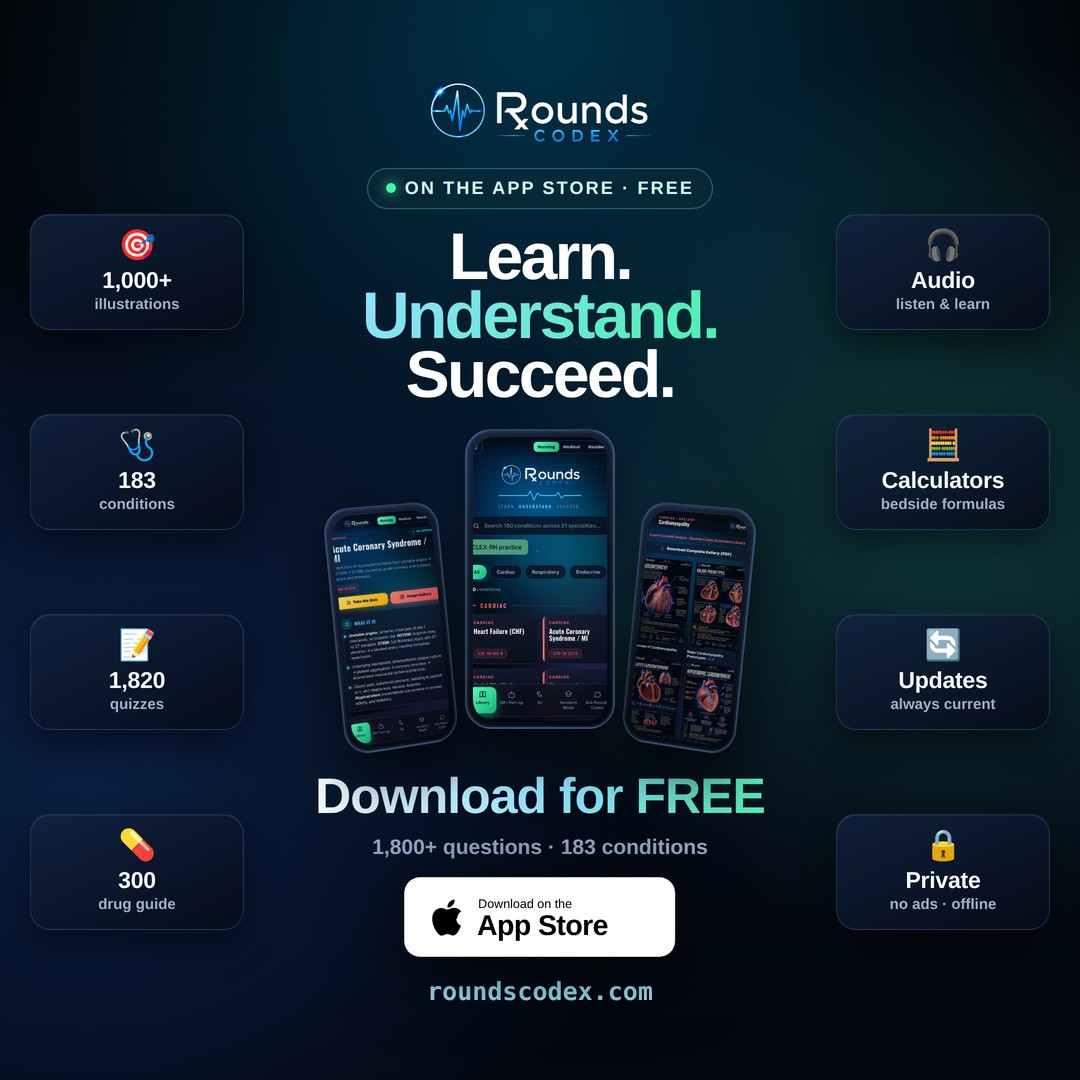
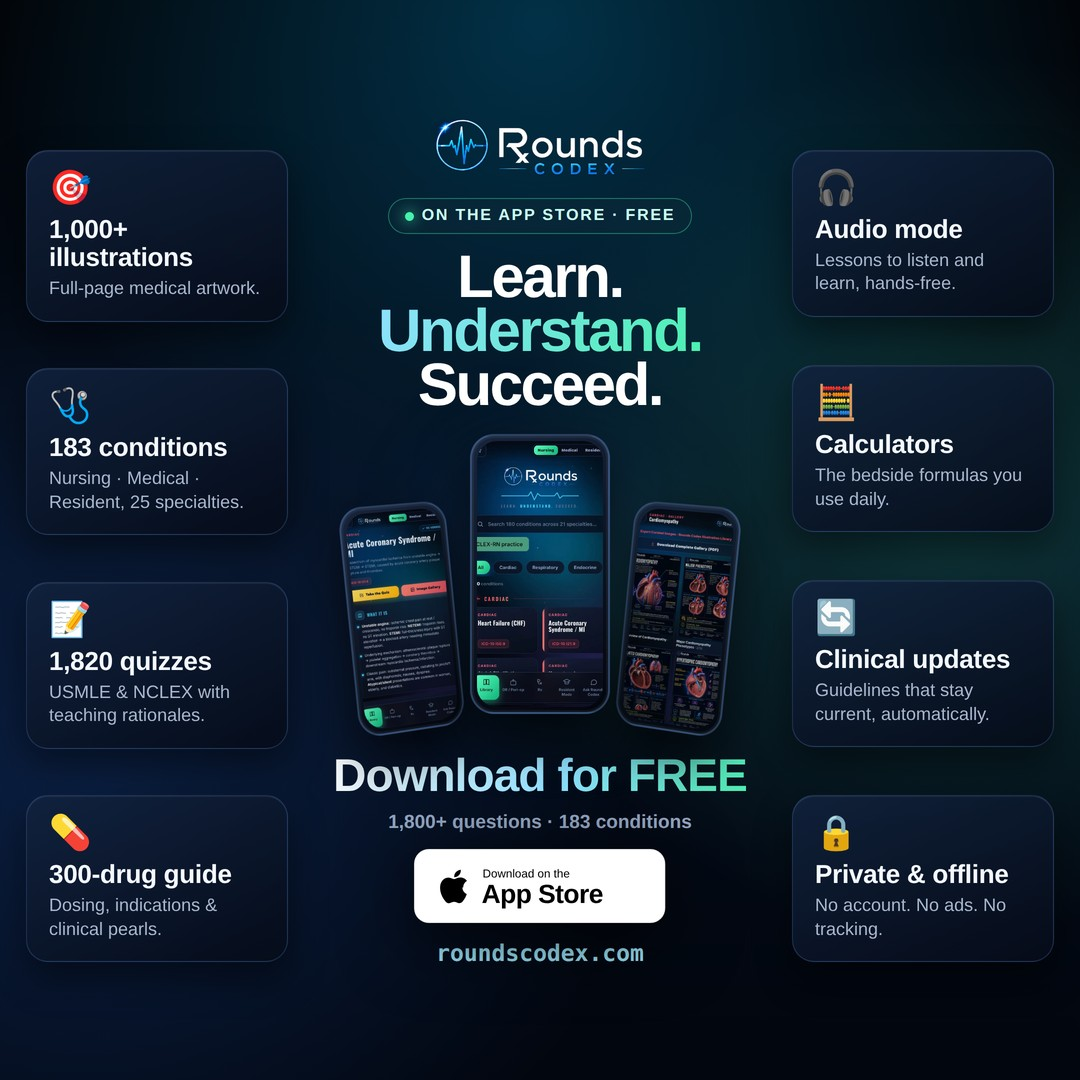
Enlarge side feature boxes with full descriptions on 1:1 square graphic

diff --git a/landing/social-square-boxes-1x1.html b/landing/social-square-boxes-1x1.html
@@ -11,55 +11,55 @@ body{background:#000}
     radial-gradient(circle at 8% 74%,#2878ff30,#0000 42%),
     linear-gradient(#020509,#050e1d 52%,#02060e)}
 .inner{position:relative;z-index:2;height:100%;display:flex;flex-direction:column;align-items:center;
-  justify-content:center;text-align:center;padding:44px 60px 42px}
-.logo{width:236px;height:auto}
-.pill{display:inline-flex;align-items:center;gap:.55rem;margin-top:16px;padding:9px 18px;border-radius:999px;
-  background:#0f2a3a6b;border:1px solid #46f2ad60;color:#c9fff0;font-size:18px;font-weight:800;letter-spacing:.12em;text-transform:uppercase}
-.pill i{width:10px;height:10px;border-radius:50%;background:#46f2ad;box-shadow:0 0 14px #46f2ad}
-h1{margin-top:18px;font-size:66px;line-height:.9;letter-spacing:-.04em;font-weight:850}
+  justify-content:center;text-align:center;padding:40px 300px 40px}
+.logo{width:224px;height:auto}
+.pill{display:inline-flex;align-items:center;gap:.5rem;margin-top:14px;padding:8px 16px;border-radius:999px;
+  background:#0f2a3a6b;border:1px solid #46f2ad60;color:#c9fff0;font-size:16px;font-weight:800;letter-spacing:.11em;text-transform:uppercase}
+.pill i{width:9px;height:9px;border-radius:50%;background:#46f2ad;box-shadow:0 0 14px #46f2ad}
+h1{margin-top:16px;font-size:60px;line-height:.9;letter-spacing:-.04em;font-weight:850}
 h1 .u{color:#0000;background:linear-gradient(120deg,#8fe0ff,#4bf1b0);-webkit-background-clip:text;background-clip:text}
-.phones{position:relative;display:flex;justify-content:center;align-items:flex-end;gap:14px;margin:24px 0 20px}
-.phones:before{content:"";position:absolute;inset:2% 6% 0;z-index:-1;filter:blur(58px);border-radius:50%;
+.phones{position:relative;display:flex;justify-content:center;align-items:flex-end;gap:12px;margin:22px 0 18px}
+.phones:before{content:"";position:absolute;inset:2% 6% 0;z-index:-1;filter:blur(54px);border-radius:50%;
   background:radial-gradient(circle at 50% 40%,#2878ff66,#0000 46%),radial-gradient(circle at 62% 60%,#36e8b74d,#0000 46%)}
-.ph{width:150px;aspect-ratio:.5;border:2px solid #7ab4ff55;border-radius:26px;padding:6px;background:linear-gradient(150deg,#17253d,#02050c);
-  box-shadow:0 24px 56px #000b,inset 0 0 0 2px #ffffff0d;overflow:hidden}
-.ph img{width:100%;height:100%;object-fit:cover;object-position:top;border-radius:21px}
-.ph.s{width:122px;opacity:.92}
-.ph.l{transform:perspective(1200px) rotateY(20deg) rotate(-6deg) translateY(20px)}
-.ph.r{transform:perspective(1200px) rotateY(-20deg) rotate(6deg) translateY(20px)}
+.ph{width:140px;aspect-ratio:.5;border:2px solid #7ab4ff55;border-radius:24px;padding:5px;background:linear-gradient(150deg,#17253d,#02050c);
+  box-shadow:0 22px 52px #000b,inset 0 0 0 2px #ffffff0d;overflow:hidden}
+.ph img{width:100%;height:100%;object-fit:cover;object-position:top;border-radius:20px}
+.ph.s{width:114px;opacity:.92}
+.ph.l{transform:perspective(1200px) rotateY(20deg) rotate(-6deg) translateY(18px)}
+.ph.r{transform:perspective(1200px) rotateY(-20deg) rotate(6deg) translateY(18px)}
 .ph.c{z-index:2}
-.free{margin-top:18px;font-size:50px;font-weight:900;letter-spacing:-.02em;
+.free{margin-top:16px;font-size:46px;font-weight:900;letter-spacing:-.02em;
   color:#0000;background:linear-gradient(120deg,#fff,#8fe0ff 55%,#4bf1b0);-webkit-background-clip:text;background-clip:text}
-.stats{margin-top:11px;font-size:21px;color:#93a6c2;font-weight:600}
-.badge{margin-top:16px;filter:drop-shadow(0 16px 36px #000b)}
-.badge svg{height:82px;width:auto}
-.domain{margin-top:14px;font-size:25px;font-weight:800;color:#9fe9ff;font-family:ui-monospace,SFMono-Regular,Menlo,monospace}
+.stats{margin-top:10px;font-size:19px;color:#93a6c2;font-weight:600}
+.badge{margin-top:14px;filter:drop-shadow(0 16px 36px #000b)}
+.badge svg{height:76px;width:auto}
+.domain{margin-top:12px;font-size:23px;font-weight:800;color:#9fe9ff;font-family:ui-monospace,SFMono-Regular,Menlo,monospace}
 
 /* side feature columns */
-.side{position:absolute;z-index:3;top:214px;bottom:150px;width:214px;
+.side{position:absolute;z-index:3;top:150px;bottom:118px;width:262px;
   display:flex;flex-direction:column;justify-content:space-between}
-.side.left{left:30px}
-.side.right{right:30px}
-.fbox{display:flex;flex-direction:column;align-items:center;text-align:center;
-  background:linear-gradient(155deg,#12233fd0,#060c19ee);border:1px solid #6fa9ff33;border-radius:20px;
-  padding:16px 12px 15px;box-shadow:0 14px 34px #0007,inset 0 1px #ffffff0f}
-.fbox .ic{font-size:30px;line-height:1;margin-bottom:7px}
-.fbox b{display:block;color:#f4f9ff;font-size:23px;font-weight:850;letter-spacing:-.01em;line-height:1.05}
-.fbox p{margin-top:4px;color:#9fb0c8;font-size:15px;line-height:1.2;font-weight:600}
+.side.left{left:26px}
+.side.right{right:26px}
+.fbox{display:flex;flex-direction:column;text-align:left;
+  background:linear-gradient(155deg,#12233fd6,#060c19f0);border:1px solid #6fa9ff36;border-radius:22px;
+  padding:20px 22px;box-shadow:0 16px 38px #0007,inset 0 1px #ffffff10}
+.fbox .ic{font-size:34px;line-height:1;margin-bottom:10px}
+.fbox b{display:block;color:#f4f9ff;font-size:26px;font-weight:850;letter-spacing:-.01em;line-height:1.08;margin-bottom:6px}
+.fbox p{color:#a7b6cd;font-size:18px;line-height:1.3;font-weight:500}
 </style></head>
 <body>
 <div class="canvas">
   <div class="side left">
-    <div class="fbox"><span class="ic">🎯</span><b>1,000+</b><p>illustrations</p></div>
-    <div class="fbox"><span class="ic">🩺</span><b>183</b><p>conditions</p></div>
-    <div class="fbox"><span class="ic">📝</span><b>1,820</b><p>quizzes</p></div>
-    <div class="fbox"><span class="ic">💊</span><b>300</b><p>drug guide</p></div>
+    <div class="fbox"><span class="ic">🎯</span><b>1,000+ illustrations</b><p>Full-page medical artwork.</p></div>
+    <div class="fbox"><span class="ic">🩺</span><b>183 conditions</b><p>Nursing · Medical · Resident, 25 specialties.</p></div>
+    <div class="fbox"><span class="ic">📝</span><b>1,820 quizzes</b><p>USMLE &amp; NCLEX with teaching rationales.</p></div>
+    <div class="fbox"><span class="ic">💊</span><b>300-drug guide</b><p>Dosing, indications &amp; clinical pearls.</p></div>
   </div>
   <div class="side right">
-    <div class="fbox"><span class="ic">🎧</span><b>Audio</b><p>listen &amp; learn</p></div>
-    <div class="fbox"><span class="ic">🧮</span><b>Calculators</b><p>bedside formulas</p></div>
-    <div class="fbox"><span class="ic">🔄</span><b>Updates</b><p>always current</p></div>
-    <div class="fbox"><span class="ic">🔒</span><b>Private</b><p>no ads · offline</p></div>
+    <div class="fbox"><span class="ic">🎧</span><b>Audio mode</b><p>Lessons to listen and learn, hands-free.</p></div>
+    <div class="fbox"><span class="ic">🧮</span><b>Calculators</b><p>The bedside formulas you use daily.</p></div>
+    <div class="fbox"><span class="ic">🔄</span><b>Clinical updates</b><p>Guidelines that stay current, automatically.</p></div>
+    <div class="fbox"><span class="ic">🔒</span><b>Private &amp; offline</b><p>No account. No ads. No tracking.</p></div>
   </div>
   <div class="inner">
     <img class="logo" src="assets/rounds-codex-logo-clear.png" alt="Rounds Codex">
